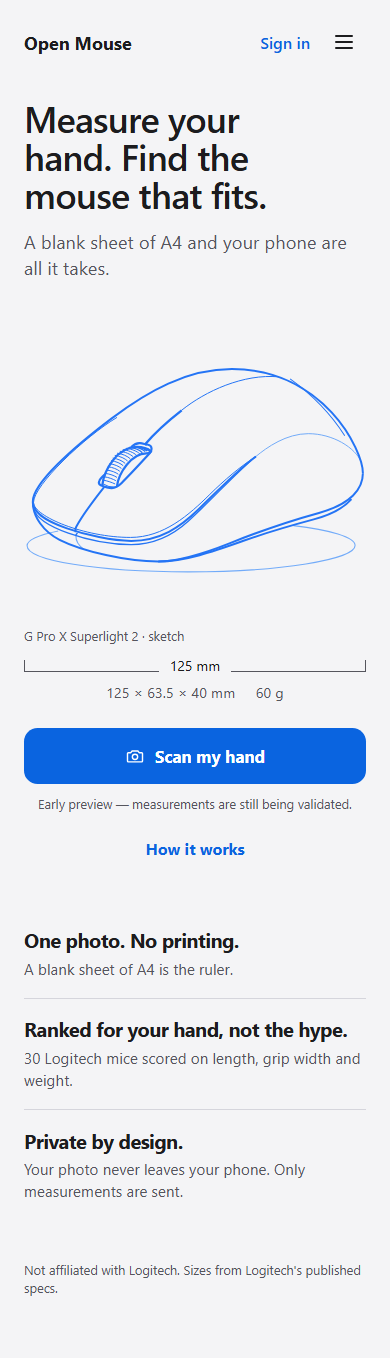
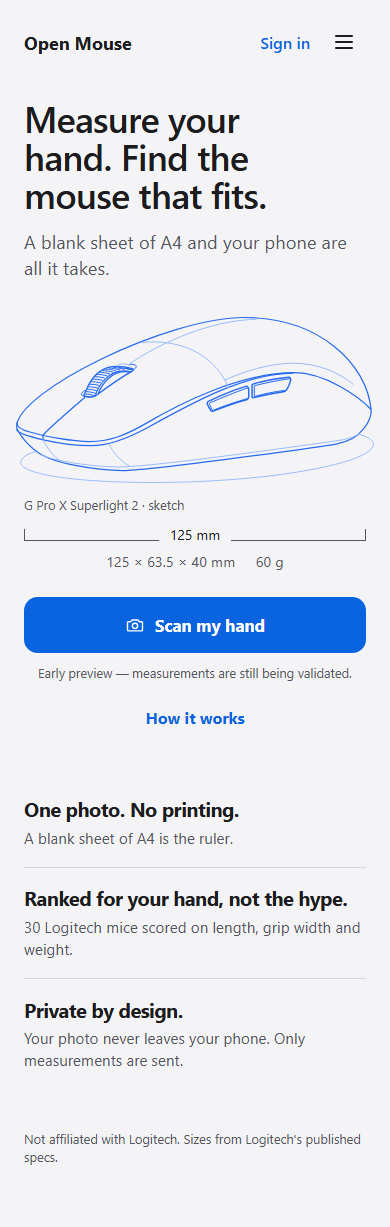
Landing sketch v2: side buttons, longer low three-quarter view
Claude-Session: https://claude.ai/code/session_01NbhwgDQM7NVJpyrTU5XTCU

diff --git a/src/app/home.css b/src/app/home.css
@@ -260,18 +260,20 @@
   line-height: 1.4;
 }
 .landing-sketch {
-  margin: 2.5rem 0 0.35rem;
+  /* Bleeds slightly past the text column so the long side view reads as
+     the page's one bold element. */
+  margin: 2rem -0.75rem 0.35rem;
 }
 .landing-sketch img {
   display: block;
   width: 100%;
-  height: 18.75rem;
-  object-fit: contain;
+  height: auto;
+  aspect-ratio: 487.54 / 231.57;
 }
 .landing-sketch figcaption {
   color: #55555d;
   font-size: 0.8rem;
-  margin-top: 0.4rem;
+  margin: 0.6rem 0.75rem 0;
 }
 .landing-dimension {
   display: flex;

diff --git a/src/app/page.tsx b/src/app/page.tsx
@@ -42,7 +42,7 @@ export default function HomePage() {
         {/* eslint-disable-next-line @next/next/no-img-element -- static SVG sketch */}
         <img
           src="/images/g-pro-sketch.svg"
-          alt="Line sketch of the G Pro X Superlight 2 mouse"
+          alt="Line sketch of the G Pro X Superlight 2 mouse, seen from the left, showing its two side buttons"
         />
         <figcaption>G Pro X Superlight 2 · sketch</figcaption>
       </figure>

diff --git a/docs/design/easy-scan-shell-2026-09-25/README.md b/docs/design/easy-scan-shell-2026-09-25/README.md
@@ -127,3 +127,12 @@ separate page.
 **How it works (18)** — the previous main page content moves here: "‹ Home"
 back link, title "How it works", the hand-on-A4 illustration with corner
 checks, "Three steps", "Scan my hand", the privacy card, a privacy link.
+
+### Sketch v2 (2026-09-26)
+
+Kirby: the first sketch missed the side buttons and read too short. The
+sketch is regenerated on pen.dev ("Asset · G Pro style sketch v2") from a
+low three-quarter view on the left side, so the length (≈ 2 : 1 at
+125 × 63.5 mm) reads and the two side (thumb) buttons are visible. The
+landing sizes it by its own aspect ratio and lets it bleed slightly past the
+text column. Screen 17's PNG still shows v1; `built/landing.png` is current.
